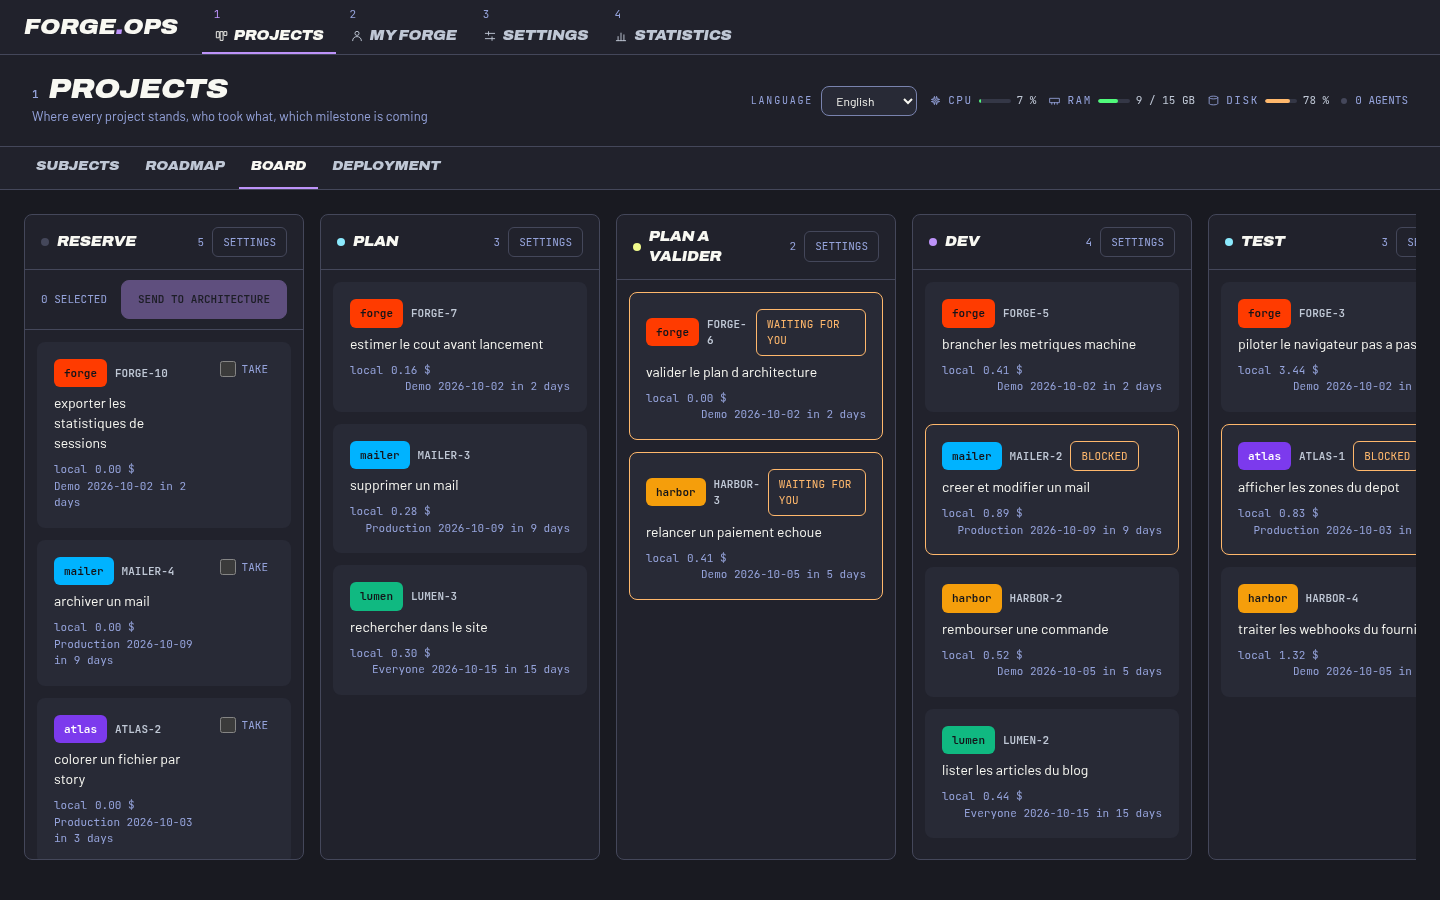
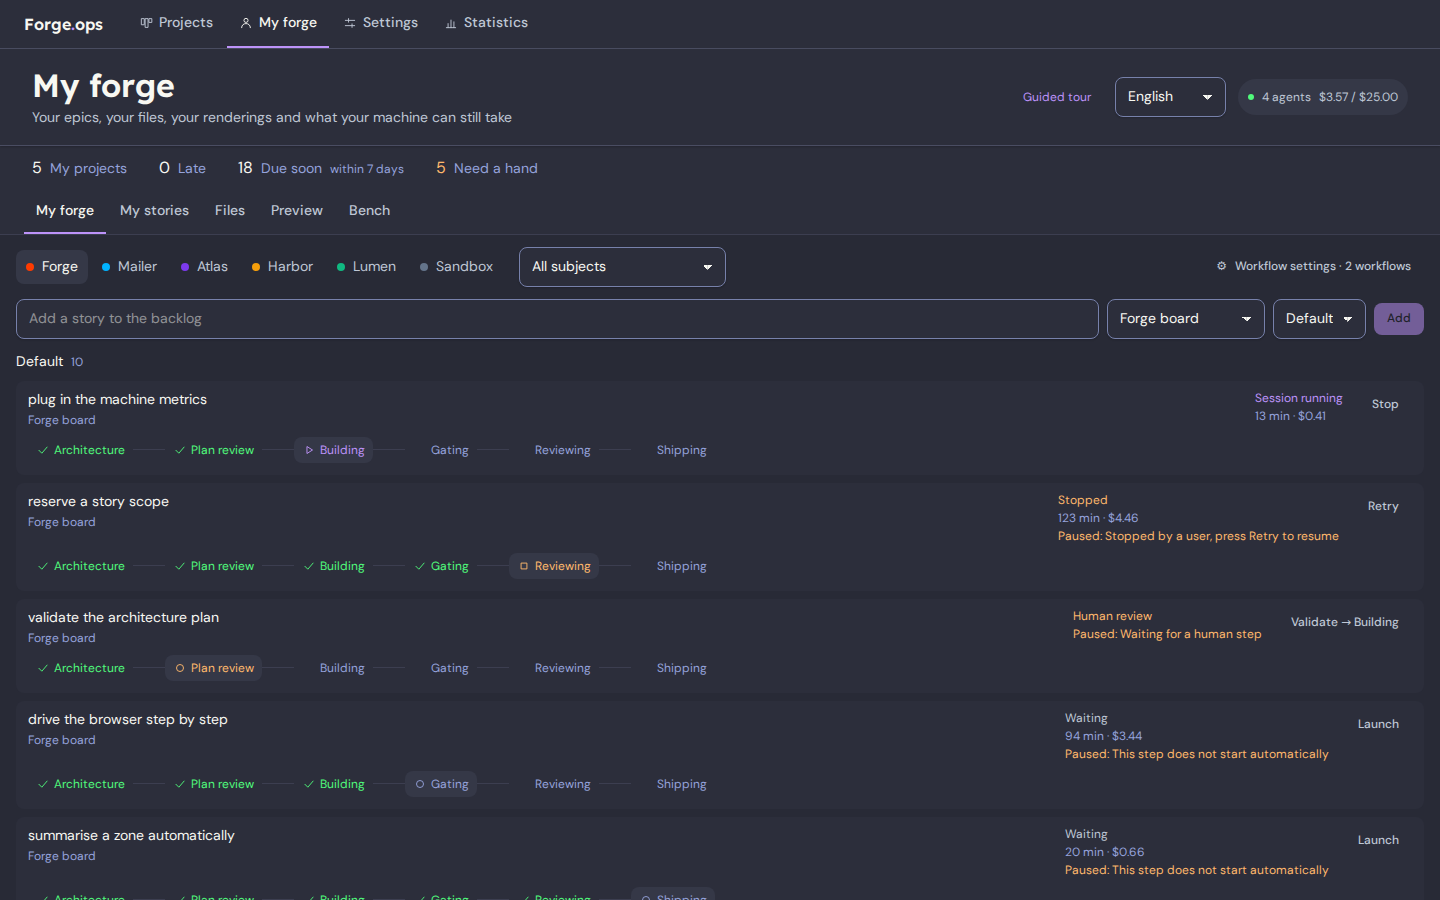
docs: document the workflows, refresh the screenshots and the demo board

diff --git a/backend/src/composition/DemoSeed.ts b/backend/src/composition/DemoSeed.ts
@@ -19,7 +19,7 @@ import { REVIEW_LENS_SEQUENCE } from '../domain/Checkpoint/Checkpoint.js'
 import type { CheckpointName } from '../domain/Checkpoint/Checkpoint.js'
 import type { StoryState } from '../domain/Story/Story.js'
 import type { AgentPhase } from '../domain/Agent/AgentSession.js'
-import { STORY_WORKFLOW_ID_SQL } from '../domain/Workflow/ProjectWorkflowRepository.js'
+import { createProjectWorkflowRepository, STORY_WORKFLOW_ID_SQL } from '../domain/Workflow/ProjectWorkflowRepository.js'
 import { createWorkflowColumnRepository } from '../domain/Workflow/WorkflowColumnRepository.js'
 import type { WorkflowColumnDraft } from '../../../contract/WorkflowColumnContract.js'
 import type { SessionExit } from '../domain/Agent/SessionOutcome.js'
@@ -436,6 +436,12 @@ const LUMEN_STEPS: readonly WorkflowColumnDraft[] = [
   agentStep('Gating', 'orange', false),
   agentStep('Reviewing', 'green', false),
   agentStep('Shipping', 'red', false),
+]
+
+const HOTFIX_STEPS: readonly WorkflowColumnDraft[] = [
+  agentStep('Build', 'info', true),
+  agentStep('Review', 'green', false),
+  agentStep('Ship', 'red', false),
 ]
 
 const PLAN: readonly ProjectPlan[] = [
@@ -1493,6 +1499,34 @@ export function seedDemoBoard(db: Database.Database): DemoBoard {
       if (plan.column !== undefined) {
         placeInColumn.run(plan.column, storyId)
       }
+    }
+  }
+
+  const forgeProjectId = projectIds.get('forge')
+  if (forgeProjectId !== undefined) {
+    const hotfix = createProjectWorkflowRepository(db).create(forgeProjectId, 'Hotfix')
+    for (const step of HOTFIX_STEPS) {
+      workflowColumns.create(forgeProjectId, step, hotfix.id)
+    }
+    const epicId = db.prepare<[number], { id: number }>('SELECT id FROM epic WHERE project_id = ? ORDER BY id LIMIT 1').get(forgeProjectId)?.id
+    if (epicId !== undefined) {
+      const fix = stories.writeStory({
+        epicId,
+        title: 'fix the scope release after a rename',
+        body: 'As an architect I want a renamed path to free its reservation so the next story is not blocked by a ghost.',
+      })
+      stories.writeTwin({
+        storyId: fix.id,
+        title: 'prove the scope release after a rename',
+        body: `Acceptance cases of ${fix.reference}, written before the code.`,
+      })
+      stories.sendToBacklog(fix.id)
+      db.prepare<[number, number, number]>(
+        `UPDATE story
+            SET workflow_id = ?, state = 'building',
+                workflow_column_id = (SELECT id FROM workflow_column WHERE workflow_id = ? AND key = 'build')
+          WHERE id = ?`,
+      ).run(hotfix.id, hotfix.id, fix.id)
     }
   }
 

diff --git a/frontend/src/technical/Api/Demo/DemoLoader.ts b/frontend/src/technical/Api/Demo/DemoLoader.ts
@@ -51,7 +51,12 @@ export function createDemoState(source: Record<string, unknown>): DemoState {
     const own: Workflow =
       listed[0] ?? { id: project.id, projectId: project.id, key: 'default', name: 'Default', position: 1 }
     workflows.push(...(listed.length > 0 ? listed : [own]))
-    columns.push(...projectColumns.map((column) => ({ ...column, workflowId: column.workflowId ?? own.id })))
+    for (const workflow of listed.length > 0 ? listed : [own]) {
+      const ofWorkflow =
+        held<ProjectWorkflow | null>(snapshot, `/api/projects/${project.id}/workflow-columns?workflow=${workflow.id}`, null)?.columns ??
+        (workflow.id === own.id ? projectColumns : [])
+      columns.push(...ofWorkflow.map((column) => ({ ...column, workflowId: workflow.id })))
+    }
     cards.push(
       ...held<ForgeCardView[]>(snapshot, `/api/forge-cards?project=${project.id}`, []).map((card) => ({
         ...card,

diff --git a/backend/src/demoSnapshot.ts b/backend/src/demoSnapshot.ts
@@ -75,6 +75,13 @@ for (const identifier of identifiers) {
   }
 }
 
+for (const identifier of identifiers) {
+  const listed = snapshot[`/api/projects/${identifier}/workflows`] as { workflows?: { id: number }[] } | undefined
+  for (const workflow of listed?.workflows ?? []) {
+    await capture(`/api/projects/${identifier}/workflow-columns?workflow=${workflow.id}`)
+  }
+}
+
 for (const identifier of identifiersIn(found)) {
   for (const template of STORY_PATHS) {
     await capture(template.replace(':id', String(identifier)))

diff --git a/README.md b/README.md
@@ -6,7 +6,7 @@ forge-ops is a board that runs Claude Code sessions on user stories, each paired
 
 **Install the desktop app:** Windows, macOS and Linux installers are on the [releases page](https://github.com/techmefr/forge-ops/releases/latest). The app updates itself, signs in with Google or Microsoft, and keeps a list of servers you can switch between. See [the desktop app](#the-desktop-app).
 
-![The board: stories in their columns, coloured by project, with blocked and waiting-for-you cards marked](frontend/public/screenshots/board.png)
+![The forge: every story of a project on the stepper of its workflow, with the running, paused and waiting-for-you cards marked](frontend/public/screenshots/board.png)
 
 It speaks French, English, German, Spanish, Italian, Portuguese and Chinese, in six colour themes (light and dark) and four text sizes, down to a phone screen.
 
@@ -17,7 +17,7 @@ It speaks French, English, German, Spanish, Italian, Portuguese and Chinese, in 
 | | |
 |---|---|
 | ![Subjects: every project with its weather, late and unassigned subjects, the team's load](frontend/public/screenshots/subjects.png) **Subjects** — every project at a glance, who took what. | ![Roadmap: subjects as bars on a timeline](frontend/public/screenshots/roadmap.png) **Roadmap** — what a project manager shows at the daily. |
-| ![My forge: personal indicators and the kanban of my stories](frontend/public/screenshots/my-forge.png) **My forge** — your epics, your files, what your machine can still take. | ![Writing stories with Claude: pick an epic, Claude drafts the cards](frontend/public/screenshots/stories.png) **Stories** — pick an epic, write with Claude, then the twin test story. |
+| ![My forge: personal indicators and the stories of a project, a stepper per workflow](frontend/public/screenshots/my-forge.png) **My forge** — your epics, your files, what your machine can still take, and each project with its workflows. | ![Writing stories with Claude: pick an epic, Claude drafts the cards](frontend/public/screenshots/stories.png) **Stories** — pick an epic, write with Claude, then the twin test story. |
 | ![Statistics: sessions, cost, machine time, most used agents](frontend/public/screenshots/statistics.png) **Statistics** — what it costs and where it goes. | ![Settings: palette, mode, font, text size](frontend/public/screenshots/settings.png) **Settings** — six palettes, light and dark, four fonts, four sizes. |
 
 | Volt | Dracula | Nord |
@@ -97,7 +97,9 @@ The doctrine lives in [.claude/commands/](.claude/commands) and [.claude/skills/
 
 ### How a story flows
 
-A card sits in a project workflow: Backlog, the project's steps in order, then Done. The default steps map to the phases of the sequence above, and a project administrator can add, reorder or remove steps (each one is an agent step or a Human step).
+A project has one or several **workflows** (Default, Hotfix, Checklist, whatever fits the work). Each workflow is its own list of steps, so a hotfix can skip Spec and Plan while a feature walks the whole sequence. A card belongs to one workflow, chosen when the story is added to the backlog, and sits in it: Backlog, the workflow's steps in order, then Done. The default steps map to the phases of the sequence above, and a project administrator can add, duplicate, rename or delete workflows and add, reorder or remove their steps (each one is an agent step or a Human step).
+
+On the Forge screen each card shows a compact stepper of its own workflow, lighter than a kanban of columns and readable on a phone. Opening a card shows the conversation: a step already passed is read-only history, the current step is the one you talk to the agent in. Replying to an agent whose session has ended resumes the same Claude session with your message. A workflow that only has Human steps never needs an agent: its cards close from the last step without proofs or publication, while any workflow with an agent step keeps the full definition of done. A workflow that leaves out a phase (no Spec, no Plan) is not blocked: the board waives the checkpoints of the phases the workflow does not have and records the waiver as a proof file.
 
 ```
 Backlog
@@ -241,13 +243,15 @@ The board exposes an HTTP API (Hono). `POST /api/hooks` is also the target of th
 | `GET /api/projects/:id/events` | The events of a project in a `from`/`to` window |
 | `POST /api/events` | Creates an event (type, date, title, project) |
 | `PATCH`/`DELETE /api/events/:id` | Edits an event and its minutes, or deletes it |
-| `GET`/`POST /api/projects/:id/workflow-columns` | Reads the workflow of a project, or adds a step; adding needs the project admin |
+| `GET`/`POST /api/projects/:id/workflows` | Lists the workflows of a project, or creates one; creating needs the project admin |
+| `PUT`/`DELETE /api/projects/:id/workflows/:workflowId`, `POST …/duplicate` | Renames, deletes or duplicates a workflow with its steps; needs the project admin |
+| `GET`/`POST /api/projects/:id/workflow-columns` | Reads the steps of a workflow (`?workflow=ID`, the first workflow by default), or adds one; adding needs the project admin |
 | `PUT /api/projects/:id/workflow-columns/order` | Reorders the steps; needs the project admin |
 | `PUT`/`DELETE /api/projects/:id/workflow-columns/:columnId` | Edits or removes a step; needs the project admin |
 | `GET /api/forge-cards` | Lists the forge cards of a project (`project` query) |
-| `POST /api/forge-cards/backlog` | Adds a story to the backlog of a subject you hold |
+| `POST /api/forge-cards/backlog` | Adds a story to the backlog of a subject you hold, in a workflow of its project (`workflowId`, the first one by default) |
 | `POST /api/forge-cards/:id/move` | Moves a card to a workflow step |
-| `POST /api/forge-cards/:id/launch` | Launches the agent of the card, resuming its session; on a red card with a pending transition, runs the transition again |
+| `POST /api/forge-cards/:id/launch` | Launches the agent of the card, resuming its session (an optional `feedback` is sent as the next message); on a red card with a pending transition, runs the transition again |
 | `POST /api/forge-cards/:id/done` | Closes the card (last step only), publishes the branch when the project allows it, unblocks what waited on it |
 | `POST /api/forge-cards/:id/worktree` | Opens a worktree for the card |
 | `GET`/`PUT /api/projects/:id/autopilot` | Reads or writes the automation settings of a project (`enabled`, `autoLaunch`, `autoPublish`, `autoMerge`); writing needs the project admin |
@@ -528,6 +532,7 @@ Low-level orchestration is not rewritten: it leans on the first party — the `c
 | Deterministic port and subdomain | Done |
 | `/SPEC … /SHIP` doctrine aligned with the API | Done |
 | Kanban states, points, rollout, merge conflict | Done |
+| Several workflows per project, stepper per card, history of passed steps, Human-only workflows | Done |
 | Review cascade by lens, ordered and blocking | Done |
 | File zones with automatic summary and path attachment | Done |
 | Readable design tokens (6 themes, light and dark) | Done |

diff --git a/CHANGELOG.md b/CHANGELOG.md
@@ -6,6 +6,11 @@ All notable changes to this project are documented here. The format follows [Kee
 
 ### Added
 
+- Several workflows per project (`GET`/`POST /api/projects/:id/workflows`, rename, duplicate, delete) instead of one list of columns. Each card shows a compact stepper of its workflow, a passed step is read-only history, and the current step is the conversation with the agent. A reply to a closed session resumes it, and a launch accepts a `feedback`.
+- A workflow without a Spec or Plan step no longer blocks on the checkpoints of the missing phases: the board writes a waiver proof for them.
+- A card of a workflow with only Human steps can be closed from its last step, without proofs or publication.
+- The demonstration board has a second workflow (Hotfix) on the Forge project.
+
 - Autopilot: cards advance like a CI pipeline. The board reads a per-step verdict file and proves the checkpoint itself, retries a failed step (default 2, 0 to 5 per step), starts backlog stories when there is room, and pauses at a Human step, on a blocked agent, on budget exhaustion or on a stop. A card that cannot continue stops red with its reason.
 - Automatic Done: when the last step passes, the card closes, the branch is pushed and a pull request or merge request is opened. Auto-merge is a separate switch, off by default. Settings are per project (`GET`/`PUT /api/projects/:id/autopilot`, project admin) and the Forge screen has an `auto` badge, with `Paused` and `Red` reasons on the card.
 - Guardrail registration on an external project checkout: `npm run guardrails:install -- <checkout>` and `POST /api/projects/:id/guardrails`. The step prompts carry the doctrine from the project, else from the forge-ops install.
@@ -25,6 +30,9 @@ All notable changes to this project are documented here. The format follows [Kee
 
 ### Fixed
 
+- Worktrees are created at an absolute path, so launching a card no longer fails with a missing working directory.
+- Adding a backlog story to a workflow that belongs to another project is refused.
+- The Claude Agent SDK is bumped to 0.3.296: the previous pin refused the models of the starter workflow.
 - A card reaches Done on the default template without a click: the autopilot proves `tests_written`, `build_done`, `verified`, the review cascade, the criteria and `reviewed` from its own checks (commits, the project test command, red then green on a scratch copy without the production code, the reviewer lens verdict) instead of stopping red on `DoneNotEarned`. The Done gate itself is unchanged.
 - Publication: a missing or signed-out `gh`/`glab` pushes the branch and asks for a manual request instead of failing, and closing a story removes its worktree even though `.claude` is untracked.
 - Resuming a card session no longer fails with a unique session id error.
